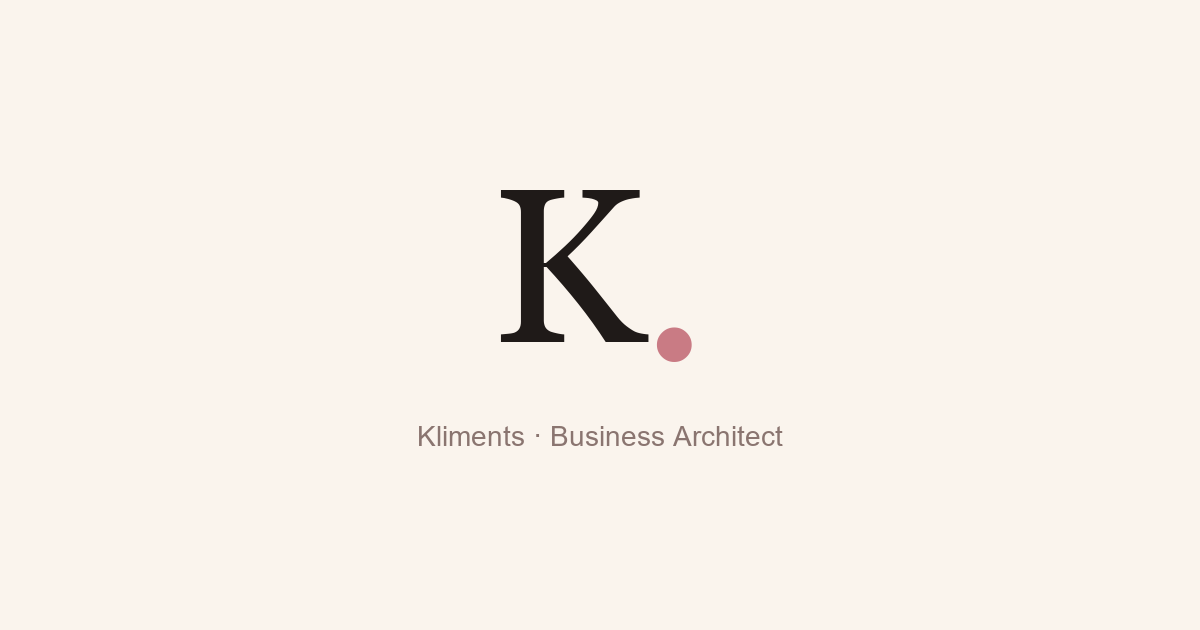
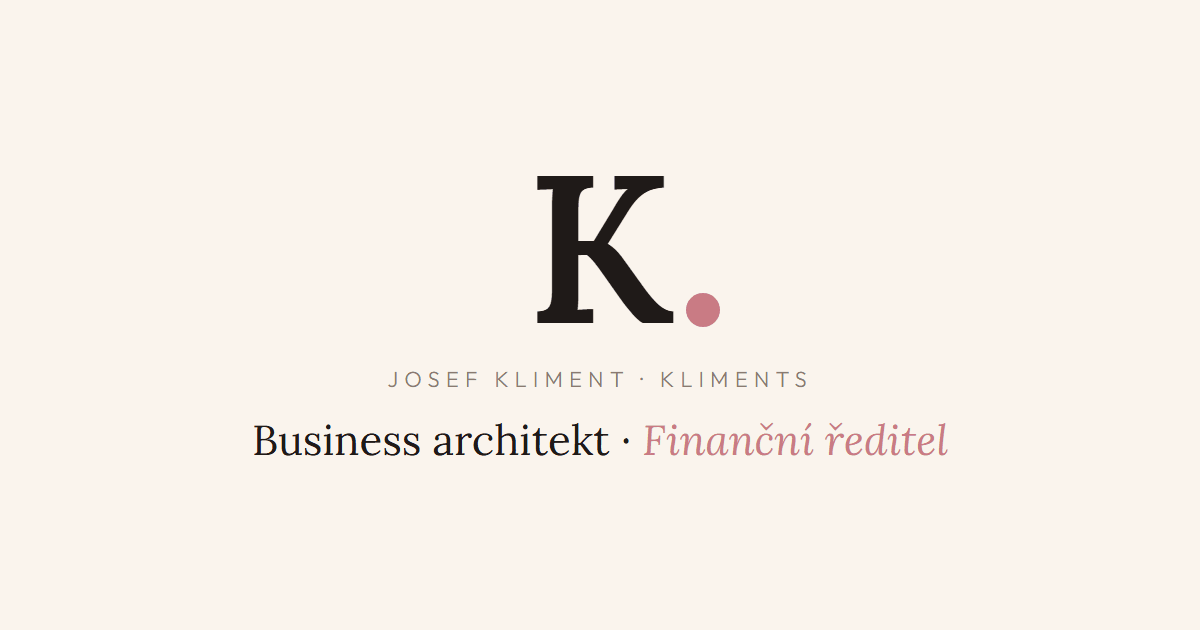
Obrázek pro sdílení: česky, obě role
Nový og-image "Business architekt · Finanční ředitel" ve stylu webu.
Odkazy na obrázek mají ?v=2, aby sociální sítě nenačítaly starou verzi
z mezipaměti.

diff --git a/index.html b/index.html
@@ -11,14 +11,14 @@
 <link rel="icon" type="image/svg+xml" href="favicon.svg">
 <meta property="og:title" content="Josef Kliment · Business architekt a finanční ředitel">
 <meta property="og:description" content="Navrhuji, jak má firma fungovat, a řídím její čísla. Struktury firem, projekty a finanční řízení.">
-<meta property="og:image" content="https://www.kliments.cz/og-image.png">
+<meta property="og:image" content="https://www.kliments.cz/og-image.png?v=2">
 <meta property="og:url" content="https://www.kliments.cz/">
 <meta property="og:type" content="website">
 <meta property="og:locale" content="cs_CZ">
 <meta name="twitter:card" content="summary_large_image">
 <meta name="twitter:title" content="Josef Kliment · Business architekt a finanční ředitel">
 <meta name="twitter:description" content="Struktury firem, projekty a finanční řízení pro české firmy.">
-<meta name="twitter:image" content="https://www.kliments.cz/og-image.png">
+<meta name="twitter:image" content="https://www.kliments.cz/og-image.png?v=2">
 <link rel="stylesheet" href="style.css">
 
 <script type="application/ld+json">
@@ -28,7 +28,7 @@
   "name": "Kliments · Josef Kliment",
   "description": "Business architekt a finanční ředitel pro české firmy. Návrh vlastnických, organizačních a finančních struktur, projekty na míru a finanční řízení.",
   "url": "https://www.kliments.cz/",
-  "image": "https://www.kliments.cz/og-image.png",
+  "image": "https://www.kliments.cz/og-image.png?v=2",
   "email": "kliment.josef@email.cz",
   "address": {
     "@type": "PostalAddress",

diff --git a/klientsky-portal/index.html b/klientsky-portal/index.html
@@ -11,14 +11,14 @@
 <link rel="icon" type="image/svg+xml" href="/favicon.svg">
 <meta property="og:title" content="Klientský portál Kliments · Vaše finanční kancelář v telefonu">
 <meta property="og:description" content="Cashflow, výsledovka, daňový kalendář, chat. Vlastní webová aplikace, kterou jsem postavil pro klienty.">
-<meta property="og:image" content="https://www.kliments.cz/og-image.png">
+<meta property="og:image" content="https://www.kliments.cz/og-image.png?v=2">
 <meta property="og:url" content="https://www.kliments.cz/klientsky-portal/">
 <meta property="og:type" content="website">
 <meta property="og:locale" content="cs_CZ">
 <meta name="twitter:card" content="summary_large_image">
 <meta name="twitter:title" content="Klientský portál Kliments · Vaše finanční kancelář v telefonu">
 <meta name="twitter:description" content="Cashflow, výsledovka, daňový kalendář, chat.">
-<meta name="twitter:image" content="https://www.kliments.cz/og-image.png">
+<meta name="twitter:image" content="https://www.kliments.cz/og-image.png?v=2">
 <link rel="stylesheet" href="/style.css">
 
 <script type="application/ld+json">

diff --git a/blog/12-chyb-pred-prodejem-firmy/index.html b/blog/12-chyb-pred-prodejem-firmy/index.html
@@ -11,7 +11,7 @@
 <link rel="icon" type="image/svg+xml" href="/favicon.svg">
 <meta property="og:title" content="12 chyb, které stojí české firmy miliony při prodeji">
 <meta property="og:description" content="Většina majitelů prodává firmu z patra a přichází o desítky procent hodnoty.">
-<meta property="og:image" content="https://www.kliments.cz/og-image.png">
+<meta property="og:image" content="https://www.kliments.cz/og-image.png?v=2">
 <meta property="og:url" content="https://www.kliments.cz/blog/12-chyb-pred-prodejem-firmy/">
 <meta property="og:type" content="article">
 <meta name="twitter:card" content="summary_large_image">
@@ -28,7 +28,7 @@
   "datePublished": "2026-05-14",
   "dateModified": "2026-05-14",
   "mainEntityOfPage": "https://www.kliments.cz/blog/12-chyb-pred-prodejem-firmy/",
-  "image": "https://www.kliments.cz/og-image.png",
+  "image": "https://www.kliments.cz/og-image.png?v=2",
   "articleSection": "Prodej firmy",
   "wordCount": 1800
 }

diff --git a/blog/cfo-vs-ucetni-kdy-co/index.html b/blog/cfo-vs-ucetni-kdy-co/index.html
@@ -11,7 +11,7 @@
 <link rel="icon" type="image/svg+xml" href="/favicon.svg">
 <meta property="og:title" content="Kdy potřebujete CFO na volné noze a kdy účetní stačí">
 <meta property="og:description" content="Účetní zachycuje minulost. Finanční ředitel pracuje s budoucností.">
-<meta property="og:image" content="https://www.kliments.cz/og-image.png">
+<meta property="og:image" content="https://www.kliments.cz/og-image.png?v=2">
 <meta property="og:url" content="https://www.kliments.cz/blog/cfo-vs-ucetni-kdy-co/">
 <meta property="og:type" content="article">
 <meta name="twitter:card" content="summary_large_image">
@@ -28,7 +28,7 @@
   "datePublished": "2026-05-07",
   "dateModified": "2026-05-07",
   "mainEntityOfPage": "https://www.kliments.cz/blog/cfo-vs-ucetni-kdy-co/",
-  "image": "https://www.kliments.cz/og-image.png",
+  "image": "https://www.kliments.cz/og-image.png?v=2",
   "articleSection": "CFO na volné noze",
   "wordCount": 1400
 }

diff --git a/blog/dcf-vs-srovnavaci-analyza/index.html b/blog/dcf-vs-srovnavaci-analyza/index.html
@@ -11,7 +11,7 @@
 <link rel="icon" type="image/svg+xml" href="/favicon.svg">
 <meta property="og:title" content="DCF vs srovnávací analýza: jak skutečně ocenit svou firmu">
 <meta property="og:description" content="Dvě nejčastější metody ocenění firmy a kdy kterou použít.">
-<meta property="og:image" content="https://www.kliments.cz/og-image.png">
+<meta property="og:image" content="https://www.kliments.cz/og-image.png?v=2">
 <meta property="og:url" content="https://www.kliments.cz/blog/dcf-vs-srovnavaci-analyza/">
 <meta property="og:type" content="article">
 <meta name="twitter:card" content="summary_large_image">
@@ -28,7 +28,7 @@
   "datePublished": "2026-04-30",
   "dateModified": "2026-04-30",
   "mainEntityOfPage": "https://www.kliments.cz/blog/dcf-vs-srovnavaci-analyza/",
-  "image": "https://www.kliments.cz/og-image.png",
+  "image": "https://www.kliments.cz/og-image.png?v=2",
   "articleSection": "Valuace",
   "wordCount": 2200
 }

diff --git a/sluzby/priprava-na-prodej/index.html b/sluzby/priprava-na-prodej/index.html
@@ -11,7 +11,7 @@
 <link rel="icon" type="image/svg+xml" href="/favicon.svg">
 <meta property="og:title" content="Příprava firmy na prodej · Kliments.cz">
 <meta property="og:description" content="Připravím vaši firmu na prodej 1/3 roky dopředu. Valuace, čištění čísel, M&A poradenství.">
-<meta property="og:image" content="https://www.kliments.cz/og-image.png">
+<meta property="og:image" content="https://www.kliments.cz/og-image.png?v=2">
 <meta property="og:url" content="https://www.kliments.cz/sluzby/priprava-na-prodej/">
 <meta property="og:type" content="website">
 <meta name="twitter:card" content="summary_large_image">

diff --git a/sluzby/valuace/index.html b/sluzby/valuace/index.html
@@ -11,7 +11,7 @@
 <link rel="icon" type="image/svg+xml" href="/favicon.svg">
 <meta property="og:title" content="Valuace · Kliments.cz">
 <meta property="og:description" content="Profesionální valuace firmy. Cenové rozpětí, 8 dimenzí, rizika, scénáře, Exit Readiness Score. Od 39 900 Kč.">
-<meta property="og:image" content="https://www.kliments.cz/og-image.png">
+<meta property="og:image" content="https://www.kliments.cz/og-image.png?v=2">
 <meta property="og:url" content="https://www.kliments.cz/sluzby/valuace/">
 <meta property="og:type" content="website">
 <meta name="twitter:card" content="summary_large_image">

diff --git a/kontakt/index.html b/kontakt/index.html
@@ -11,7 +11,7 @@
 <link rel="icon" type="image/svg+xml" href="/favicon.svg">
 <meta property="og:title" content="Kontakt · Kliments.cz">
 <meta property="og:description" content="Domluvte si nezávaznou úvodní schůzku. Business architekt a finanční ředitel pro české firmy. Ostrava, celá ČR.">
-<meta property="og:image" content="https://www.kliments.cz/og-image.png">
+<meta property="og:image" content="https://www.kliments.cz/og-image.png?v=2">
 <meta property="og:url" content="https://www.kliments.cz/kontakt/">
 <meta property="og:type" content="website">
 <meta name="twitter:card" content="summary_large_image">

diff --git a/sluzby/cfo-na-volne-noze/index.html b/sluzby/cfo-na-volne-noze/index.html
@@ -11,7 +11,7 @@
 <link rel="icon" type="image/svg+xml" href="/favicon.svg">
 <meta property="og:title" content="CFO na volné noze · Kliments.cz">
 <meta property="og:description" content="Měsíční finanční řízení bez nákladu na vlastního CFO. Od 15 000 Kč/měsíc.">
-<meta property="og:image" content="https://www.kliments.cz/og-image.png">
+<meta property="og:image" content="https://www.kliments.cz/og-image.png?v=2">
 <meta property="og:url" content="https://www.kliments.cz/sluzby/cfo-na-volne-noze/">
 <meta property="og:type" content="website">
 <meta name="twitter:card" content="summary_large_image">

diff --git a/sluzby/projekt/index.html b/sluzby/projekt/index.html
@@ -11,7 +11,7 @@
 <link rel="icon" type="image/svg+xml" href="/favicon.svg">
 <meta property="og:title" content="Projekt · Kliments.cz">
 <meta property="og:description" content="Jedna otázka, jasná odpověď v číslech. Doporučení, kalkulačka a hodinová konzultace za 4 990 Kč.">
-<meta property="og:image" content="https://www.kliments.cz/og-image.png">
+<meta property="og:image" content="https://www.kliments.cz/og-image.png?v=2">
 <meta property="og:url" content="https://www.kliments.cz/sluzby/projekt/">
 <meta property="og:type" content="website">
 <meta name="twitter:card" content="summary_large_image">

diff --git a/o-mne/index.html b/o-mne/index.html
@@ -11,7 +11,7 @@
 <link rel="icon" type="image/svg+xml" href="/favicon.svg">
 <meta property="og:title" content="O mně · Josef Kliment · Kliments.cz">
 <meta property="og:description" content="Business architekt a finanční ředitel pro české firmy. 12+ let praxe, 5 vlastních firem.">
-<meta property="og:image" content="https://www.kliments.cz/og-image.png">
+<meta property="og:image" content="https://www.kliments.cz/og-image.png?v=2">
 <meta property="og:url" content="https://www.kliments.cz/o-mne/">
 <meta property="og:type" content="website">
 <meta name="twitter:card" content="summary_large_image">

diff --git a/12-chyb/index.html b/12-chyb/index.html
@@ -11,7 +11,7 @@
 <link rel="icon" type="image/svg+xml" href="/favicon.svg">
 <meta property="og:title" content="12 chyb, které stojí české firmy miliony ročně">
 <meta property="og:description" content="Bezplatný průvodce pro majitele firem. Stáhněte zdarma.">
-<meta property="og:image" content="https://www.kliments.cz/og-image.png">
+<meta property="og:image" content="https://www.kliments.cz/og-image.png?v=2">
 <meta property="og:url" content="https://www.kliments.cz/12-chyb/">
 <meta property="og:type" content="website">
 <meta name="twitter:card" content="summary_large_image">
